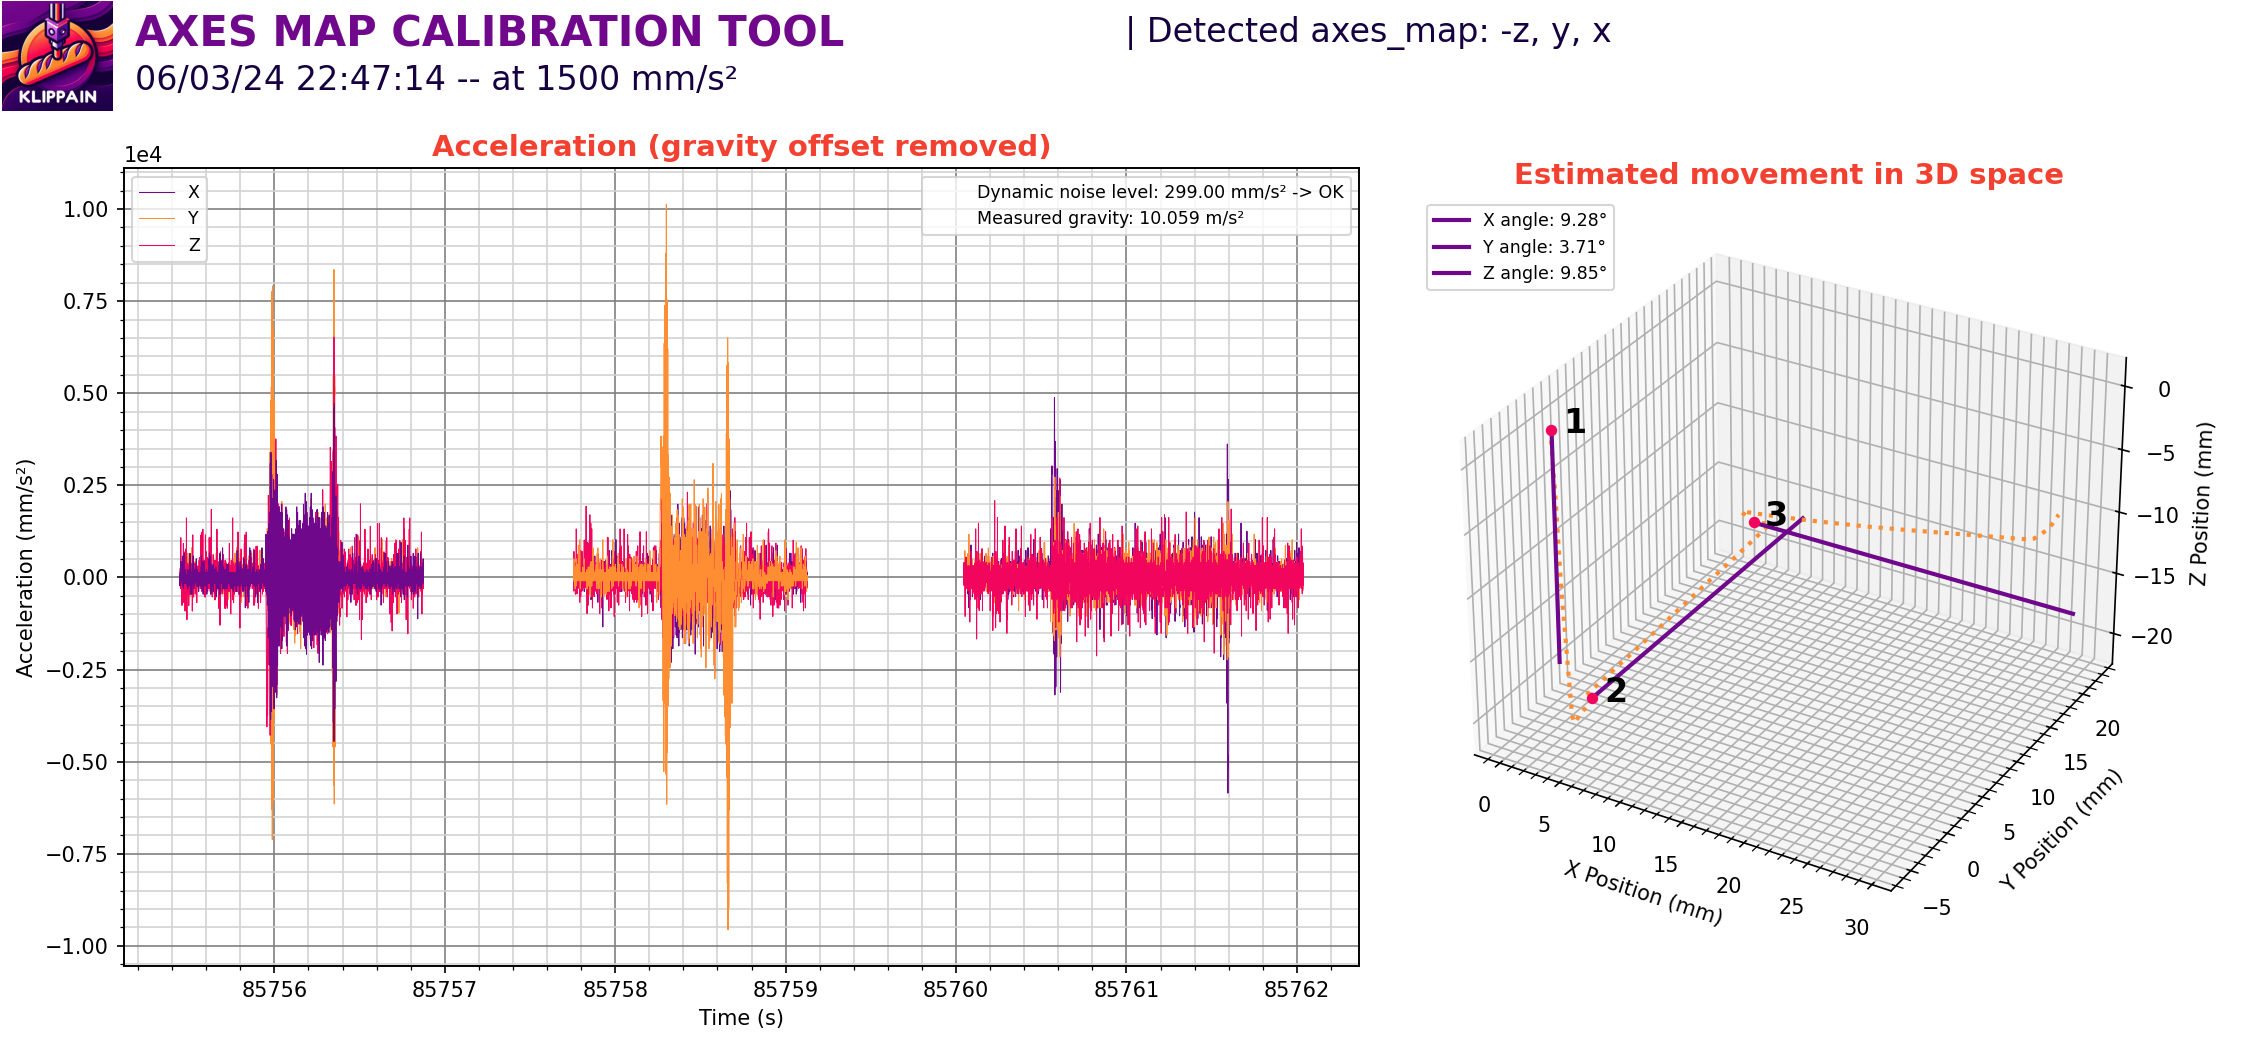
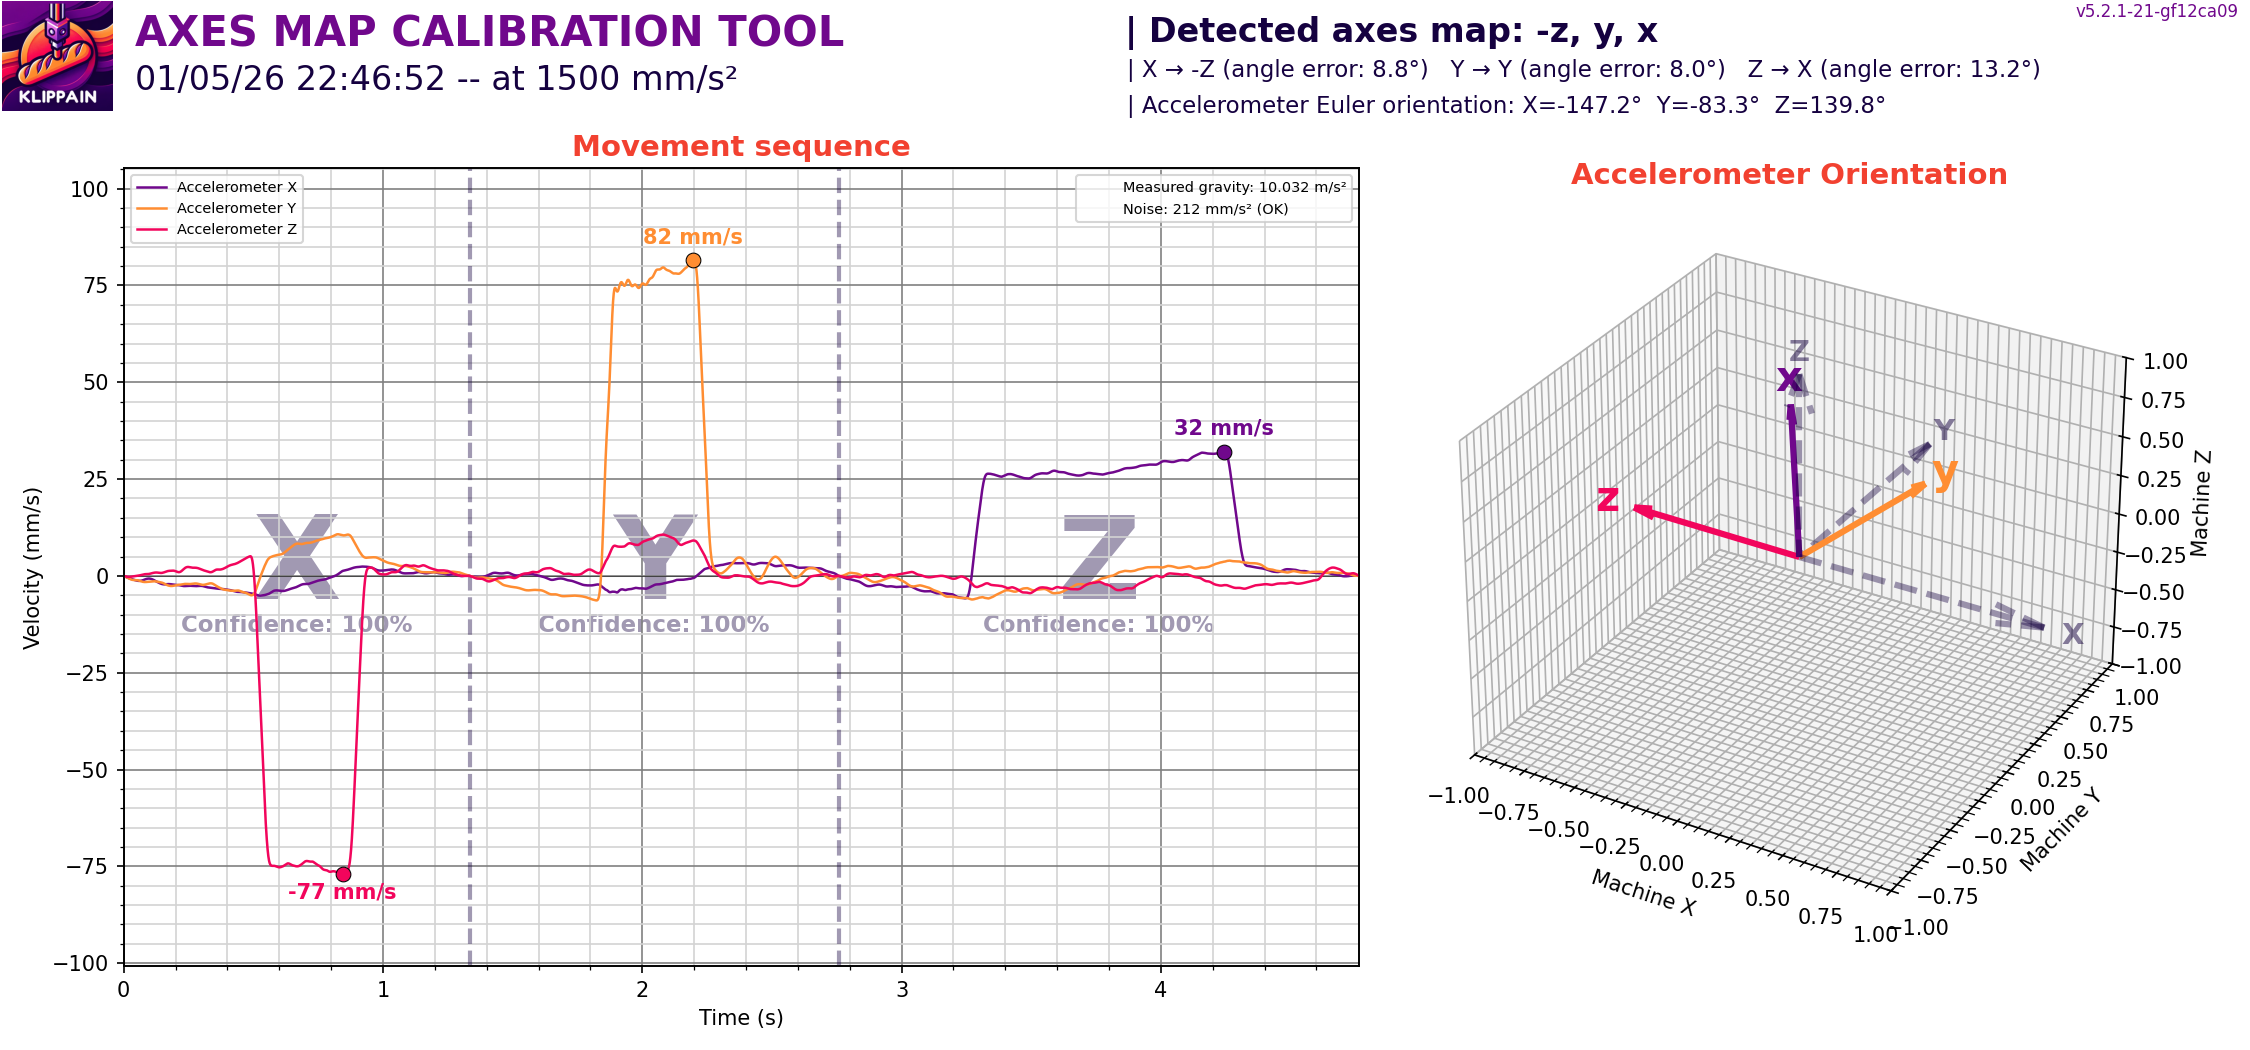
updated documentation

diff --git a/docs/macros/axes_map_calibration.md b/docs/macros/axes_map_calibration.md
@@ -15,7 +15,7 @@ Call the `AXES_MAP_CALIBRATION` macro and look for the graphs in the results fol
 |----------:|---------------|-------------|
 |Z_HEIGHT|20|z height to put the toolhead before starting the movements. Be careful, if your accelerometer is mounted under the nozzle, increase it to avoid crashing it on the bed of the machine|
 |SPEED|80|speed of the toolhead in mm/s for the movements|
-|ACCEL|1500 (or max printer accel)|accel in mm/s^2 used for all the moves|
+|ACCEL|1500|accel in mm/s^2 used for all the moves|
 |TRAVEL_SPEED|120|speed in mm/s used for all the travels moves|
 
   > **Note**:
@@ -34,154 +34,42 @@ axes_map: -z,y,x
 
 ## How it works
 
-The algorithm uses a **velocity-based detection** approach that is robust to mechanical vibrations and structural ringing:
-
-### The challenge with 3D printers
-
-When the toolhead accelerates, the mechanical system (belts, carriages, frame) acts as a damped harmonic oscillator. This means:
-- Instead of a clean acceleration pulse, you get damped oscillations (ringing)
-- These oscillations appear on ALL accelerometer axes due to mechanical coupling
-- The ringing frequency is typically 50-200 Hz (your printer's resonance frequencies)
-
-### The solution: Low-pass filtering + velocity integration
-
-1. **Low-pass filtering**: A 25 Hz cutoff filter removes the structural ringing (50+ Hz) while preserving the motion signal (< 30 Hz for typical movements).
-
-2. **Velocity integration**: Instead of analyzing acceleration peaks directly, we integrate the filtered acceleration to get velocity. This is robust because:
-   - Integration naturally smooths out oscillations
-   - The peak velocity during a move is unambiguous
-   - Only single integration is needed (minimal drift)
-
-3. **Peak velocity detection**: For each movement (X, Y, Z), we find which accelerometer axis has the largest peak velocity. That axis is aligned with the motion direction.
-
-4. **Sign detection**: The sign of the peak velocity directly indicates the orientation:
-   - Positive peak velocity = accelerometer axis aligned with +Machine direction
-   - Negative peak velocity = accelerometer axis inverted (-Machine direction)
-
-5. **Angle calculation**: The algorithm computes both per-axis tilt angles and full Euler angles (roll, pitch, yaw) to describe the accelerometer orientation.
-
-6. **Euler angle extraction**: The algorithm computes the full accelerometer orientation as Euler angles (XYZ intrinsic convention):
-   - **Roll**: Rotation about the machine X axis
-   - **Pitch**: Rotation about the machine Y axis
-   - **Yaw**: Rotation about the machine Z axis
-
-   These angles tell you exactly HOW the accelerometer is tilted relative to the machine frame. For example, "roll=2°, pitch=-1.5°, yaw=0°" means the accelerometer is tilted 2 degrees around X and -1.5 degrees around Y.
+To detect the accelerometer axes_map, Shake&Tune will move the toolhead on a small straight line in X, then Y, then Z and record the accelerometer data. The algorithm uses a **velocity-based detection** approach that is robust to mechanical vibrations and structural ringing and works like this:
+  1. A 25 Hz cutoff filter (low-pass filtering) removes the printer structural ringing while preserving the motion signal (< 30 Hz for typical movements).
+  1. Then, instead of analyzing acceleration peaks directly that can be very noisy, we integrate the filtered acceleration to get the toolhead velocity. This is robust because the peak velocity during a move is unambiguous and integration naturally smooths out oscillations.
+  1. For each segment of the sequence, we find which accelerometer axis has the largest peak velocity. That accelerometer axis is the main aligned with the motion direction. The sign of the peak velocity directly indicates the direction (positive or negative) from the machine axis.
+  1. Finally, algorithm computes two kind of angles:
+    a. per-axis tilt angles that give you the direct 3D angle between the accelerometer measured vector and the real machine axis
+    b. and full Euler angles (roll: X, pitch: Y, and then yaw: Z) to describe the accelerometer orientation in a normalized way. These angles tell you exactly how the accelerometer is tilted relative to the machine frame. For example, "X=2°, Y=-1.5°, Z=0°" means the accelerometer is tilted 2 degrees around X and -1.5 degrees around Y.
 
 
 ## Support for 2-axis machines
 
-Some printer kinematics move the bed instead of the toolhead on certain axes. This means the toolhead-mounted accelerometer doesn't physically move on that axis and only records noise:
+Some printer kinematics move the bed instead of the toolhead on certain axes. This means the toolhead-mounted accelerometer doesn't physically move on that axis and only records noise. Here are some printer example with such kind of kinematics:
 
 | Printer Type | Toolhead axes | Bed axis | Accelerometer detects |
-|--------------|---------------|----------|----------------------|
-| Voron 2.4    | X, Y, Z       | -        | X, Y, Z (all)        |
-| Voron Trident| X, Y          | Z        | X, Y only            |
-| Ender3/Switchwire | X, Z    | Y        | X, Z only            |
+|--------------|---------------|----------|-----------------------|
+| Voron 2.4    | X, Y, Z       | -        | X, Y, Z (all)         |
+| Voron Trident| X, Y          | Z        | X, Y only             |
+| Ender3/Switchwire | X, Z     | Y        | X, Z only             |
 
-### Automatic detection
-
-Shake&Tune automatically detects when exactly one axis has noise-only data by checking:
-- **Low confidence**: Below 30% (no dominant axis in velocity signal)
-- **Low velocity**: Below 1/4 of the maximum velocity measured on other axes
-
-When detected, the tool:
-1. Identifies the noise-only axis as a "bed axis"
-2. Extrapolates the missing direction using the cross product of the two measured axes
-3. Marks it as "(extrap.)" in all outputs
-
-The resulting axes_map is mathematically correct and will work perfectly for your printer!
-
-### Visual indicators
-
-When an axis is extrapolated:
-- **Console output**: Shows "(EXTRAPOLATED - accelerometer stationary on this axis)"
-- **Graph header**: Shows "(extrap.)" instead of angle error
-- **Velocity plot**: Gray shaded zone with "Extrapolated (bed axis)" label
-- **3D plot**: Semi-transparent arrow with "(extrap.)" suffix
-
-### Important notes for 2-axis machines
-
-- The extrapolated axis direction is computed mathematically from the two measured axes
-- Euler angles (roll, pitch, yaw) are still computed but the extrapolated axis contributes 0° error
-- The tool will raise an error if more than one axis has no signal (accelerometer mounting issue)
-
-
-## Understanding the graph
-
-The graph displays a 1×2 layout with two panels:
-
-### Left Panel: Velocity Sequence Plot
-
-Shows the full measurement sequence with all velocity curves:
-
-- **Large watermark letters**: "X", "Y", "Z" in the background indicate which machine axis movement is happening in each time region
-- **Confidence percentages**: Shown below each watermark letter
-- **Velocity curves**: All three accelerometer velocity traces (purple/orange/red) plotted continuously
-- **Peak markers**: Highlighted points showing the peak velocity detected in each zone
-- **Zone separators**: Vertical dashed lines between the X, Y, and Z movements
-- **Secondary legend**: Displays measured gravity and noise level
-
-This plot shows the raw detection process - you can see how the algorithm identifies which accelerometer axis has the largest velocity peak during each machine movement.
-
-### Right Panel: 3D Orientation
-
-The 3D visualization shows the **actual measured** accelerometer orientation:
-
-- **Gray dashed arrows**: The machine reference axes (X, Y, Z) pointing in the standard directions
-- **Colored solid arrows**: The accelerometer axes as **actually measured** by the calibration:
-  - **Purple arrow (x)**: Where accelerometer X-axis actually points in machine space
-  - **Orange arrow (y)**: Where accelerometer Y-axis actually points in machine space
-  - **Red/Pink arrow (z)**: Where accelerometer Z-axis actually points in machine space
-
-Unlike a perfectly aligned accelerometer where colored arrows would overlap with gray machine axes, this view shows the actual tilt. A slight misalignment (a few degrees) is normal and won't affect measurements significantly.
-
-### Header Information
-
-The header displays:
-- **Detected axes_map**: The configuration value for your `printer.cfg`
-- **Axis mappings**: For each machine axis, shows which accelerometer axis detected the motion and the tilt angle
-- **Euler angles (Tilt)**: Roll, pitch, and yaw values quantifying the accelerometer's rotation:
-  - **Roll** = rotation about machine X
-  - **Pitch** = rotation about machine Y
-  - **Yaw** = rotation about machine Z
-
-
-## Quality indicators
-
-The tool provides several quality metrics:
-
-- **Noise level**: Measured in mm/s² (before filtering). Values below 350 are good, 350-700 generate a warning, above 700 is an error.
-- **Confidence**: How much larger the primary axis peak velocity is compared to secondary axes. Should be above 50%.
-- **Tilt angle**: How far the accelerometer axis deviates from the machine axis. Values above 15° generate a warning.
-- **Gravity**: Should be close to 9.81 m/s². Unusual values indicate accelerometer calibration issues.
+| Comment | Example graph |
+| --- | --- |
+| Shake&Tune automatically detects when exactly one axis has noise-only data. When this happens, the tool will automatically extrapolate the missing direction in order to reconstruct the missing axis using the cross product of the two correctly measured axes and mark this one as "virtual". The resulting axes_map will still be correct and valid for your printer | ![](../images/axesmap/axes_map_virtual.png) |
 
 
 ## Troubleshooting
 
-### "Same accelerometer axis detected for multiple machine axes"
-This error means the algorithm couldn't uniquely map each machine axis to a different accelerometer axis. Possible causes:
-- Accelerometer mounted at ~45 degrees between axes
-- Very noisy data making detection unreliable
-- Accelerometer malfunction
+It can happen that the tool doesn't work for your usecase. For example when having this kind of graph result:
 
-**Solution**: Remount the accelerometer so it's better aligned with the machine axes, or increase the ACCEL parameter for stronger signals.
+![](../images/axesmap/bad_axes_map.png)
 
-### Low confidence warning
-The detection confidence is low, meaning the primary axis peak velocity wasn't much larger than secondary axes.
+When this happens, look at the following table to see if there's a solution for you:
 
-**Solution**: Increase the ACCEL parameter to get stronger velocity signals.
-
-### High noise level
-Too much vibration or accelerometer noise is present in the data.
-
-**Solution**: Check accelerometer wiring, mounting, and ensure the machine is on a stable surface during calibration.
-
-### High tilt angle warning
-The accelerometer is mounted with significant rotation from the machine axes.
-
-**Solution**: If accuracy matters for your use case, consider remounting the accelerometer more carefully aligned with the machine axes. Otherwise, the detected axes_map will still work correctly.
-
-### Unusual gravity reading
-The measured gravity is not close to 9.81 m/s².
-
-**Solution**: This may indicate an accelerometer calibration issue or a faulty sensor. Check the accelerometer connection and consider replacing it if the issue persists.
+| Error | Cause | Solution |
+|-------|-------|----------|
+| Same accelerometer axis detected for multiple machine axes | This error means the algorithm couldn't uniquely map each machine axis to a different accelerometer axis. Possible causes range from accelerometer mounted at ~45 degrees between axes to very noisy data making detection unreliable | Remount the accelerometer so it's better aligned with the machine axes, or increase the ACCEL parameter for stronger signals. Additionaly, if it doesn't fix it, check your accelerometer wiring and config |
+| Low confidence warning | The detection confidence is low, meaning the primary axis peak velocity wasn't much larger than noise or signal on other axes | Increase the ACCEL and SPEED parameters to get stronger velocity signals or check your accelerometer wiring and config |
+| High noise level | Too much vibration of the toolhead or high accelerometer noise is present in the data | Check accelerometer wiring, mounting, and ensure the machine is on a stable surface during calibration. Additionally, diagnose your printer mechanical health using the other macros from Shake&Tune to fix any problems |
+| High tilt angle warning | The accelerometer is mounted with significant rotation from the machine axes | Klipper doesn't support tilted accelerometers. So, if accuracy matters for your use case, consider remounting the accelerometer aligned with the machine axes. Otherwise, you should expect mixed axis signals readings in the other Shake&Tune commands |
+| Unusual gravity reading | The measured gravity is not close to 9.81 m/s² | This may indicate an accelerometer calibration issue or a faulty sensor. Check the accelerometer connection and consider replacing it if the issue persists |
